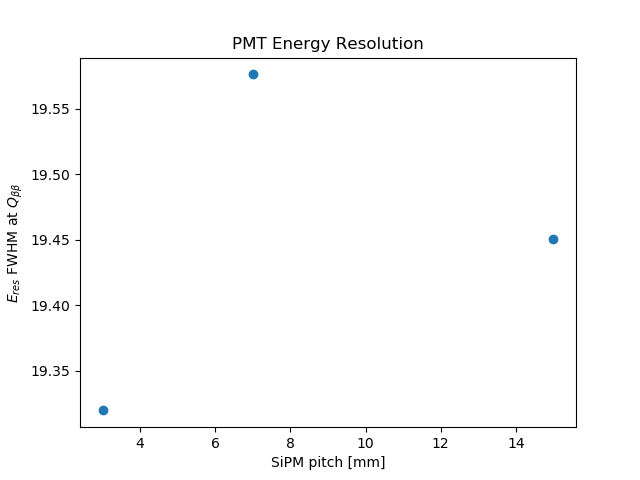
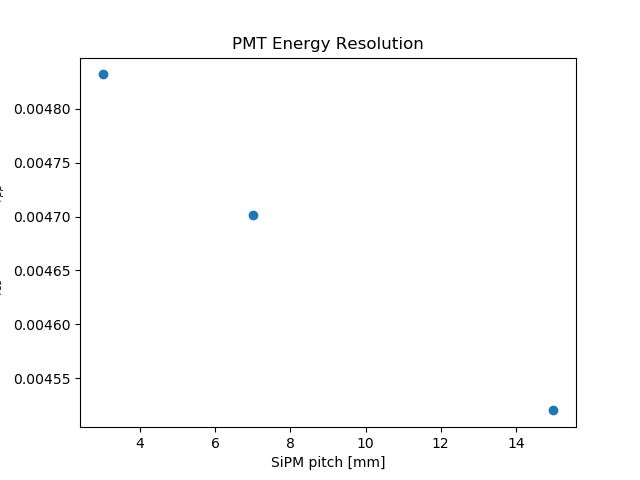
editing eres

diff --git a/ic_functions.py b/ic_functions.py
@@ -75,7 +75,7 @@ def labels(xlabel, ylabel, title=""):
 def EnergyRes(x):
     mu = np.mean(x)
     sigma = np.std(x)
-    fwhm = 2.355*sigma/mu
+    fwhm = 2.355*sigma
     e_event = 41 # keV
-    eres = fwhm*e_event
-    return eres, fwhm, mu
+    eres = fwhm/mu
+    return eres/100., fwhm, mu

diff --git a/sipmstudy_eres.py b/sipmstudy_eres.py
@@ -17,7 +17,7 @@ from scipy.stats import norm
 from ic_functions import *
 
 print("Starting")
-nfiles = 999 # will fail if too few events
+nfiles = 10 # will fail if too few events
 local = False
 
 # Create dictionary to hold run info
